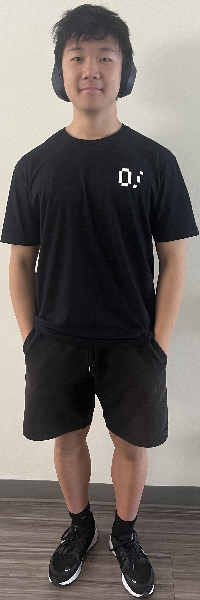
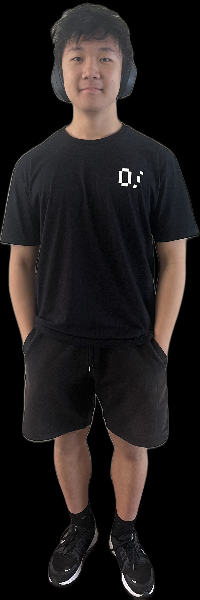
Add background removal

diff --git a/model.py b/model.py
@@ -4,6 +4,7 @@ import torchvision.models as models
 import numpy as np
 import cv2
 from PIL import Image
+from rembg import remove 
 
 # Load the pre-trained Faster R-CNN model
 model = models.detection.fasterrcnn_resnet50_fpn(pretrained=True)
@@ -69,26 +70,28 @@ if len(person_boxes) > 0:
     # Resize the cropped image to 200x600 pixels
     resized_image = cv2.resize(cropped_image, (200, 600))
 
-    if input("Show image? ") == "yes":
-        # Display the image
-        cv2.namedWindow("Detected Person", cv2.WINDOW_NORMAL)
-        cv2.resizeWindow("Detected Person", 400, 1200),
-        cv2.imshow("Detected Person", resized_image)
-        cv2.waitKey(0)
-        cv2.destroyAllWindows()
-    else:
-        cv2.imwrite("output_image.png", resized_image)
+    
+    cv2.namedWindow("Detected Person", cv2.WINDOW_NORMAL)
+    cv2.resizeWindow("Detected Person", 400, 1200),
+    cv2.imshow("Detected Person", resized_image)
+    cv2.waitKey(0)
+    cv2.destroyAllWindows()
 
 else:
-    print("No person detected in the image.")
+    input("No person detected in the image.")
+    quit()
 
 
 
+pil_image = Image.fromarray(cv2.cvtColor(resized_image, cv2.COLOR_BGR2RGB))
+nobg_image = remove(pil_image)
+output_image = cv2.cvtColor(np.array(nobg_image), cv2.COLOR_RGB2BGR)
 
 
-
-
-
+cv2.imshow("Detected Person", output_image)
+cv2.waitKey(0)
+cv2.destroyAllWindows()
+cv2.imwrite("output_image.png", output_image)
 
 
 '''
